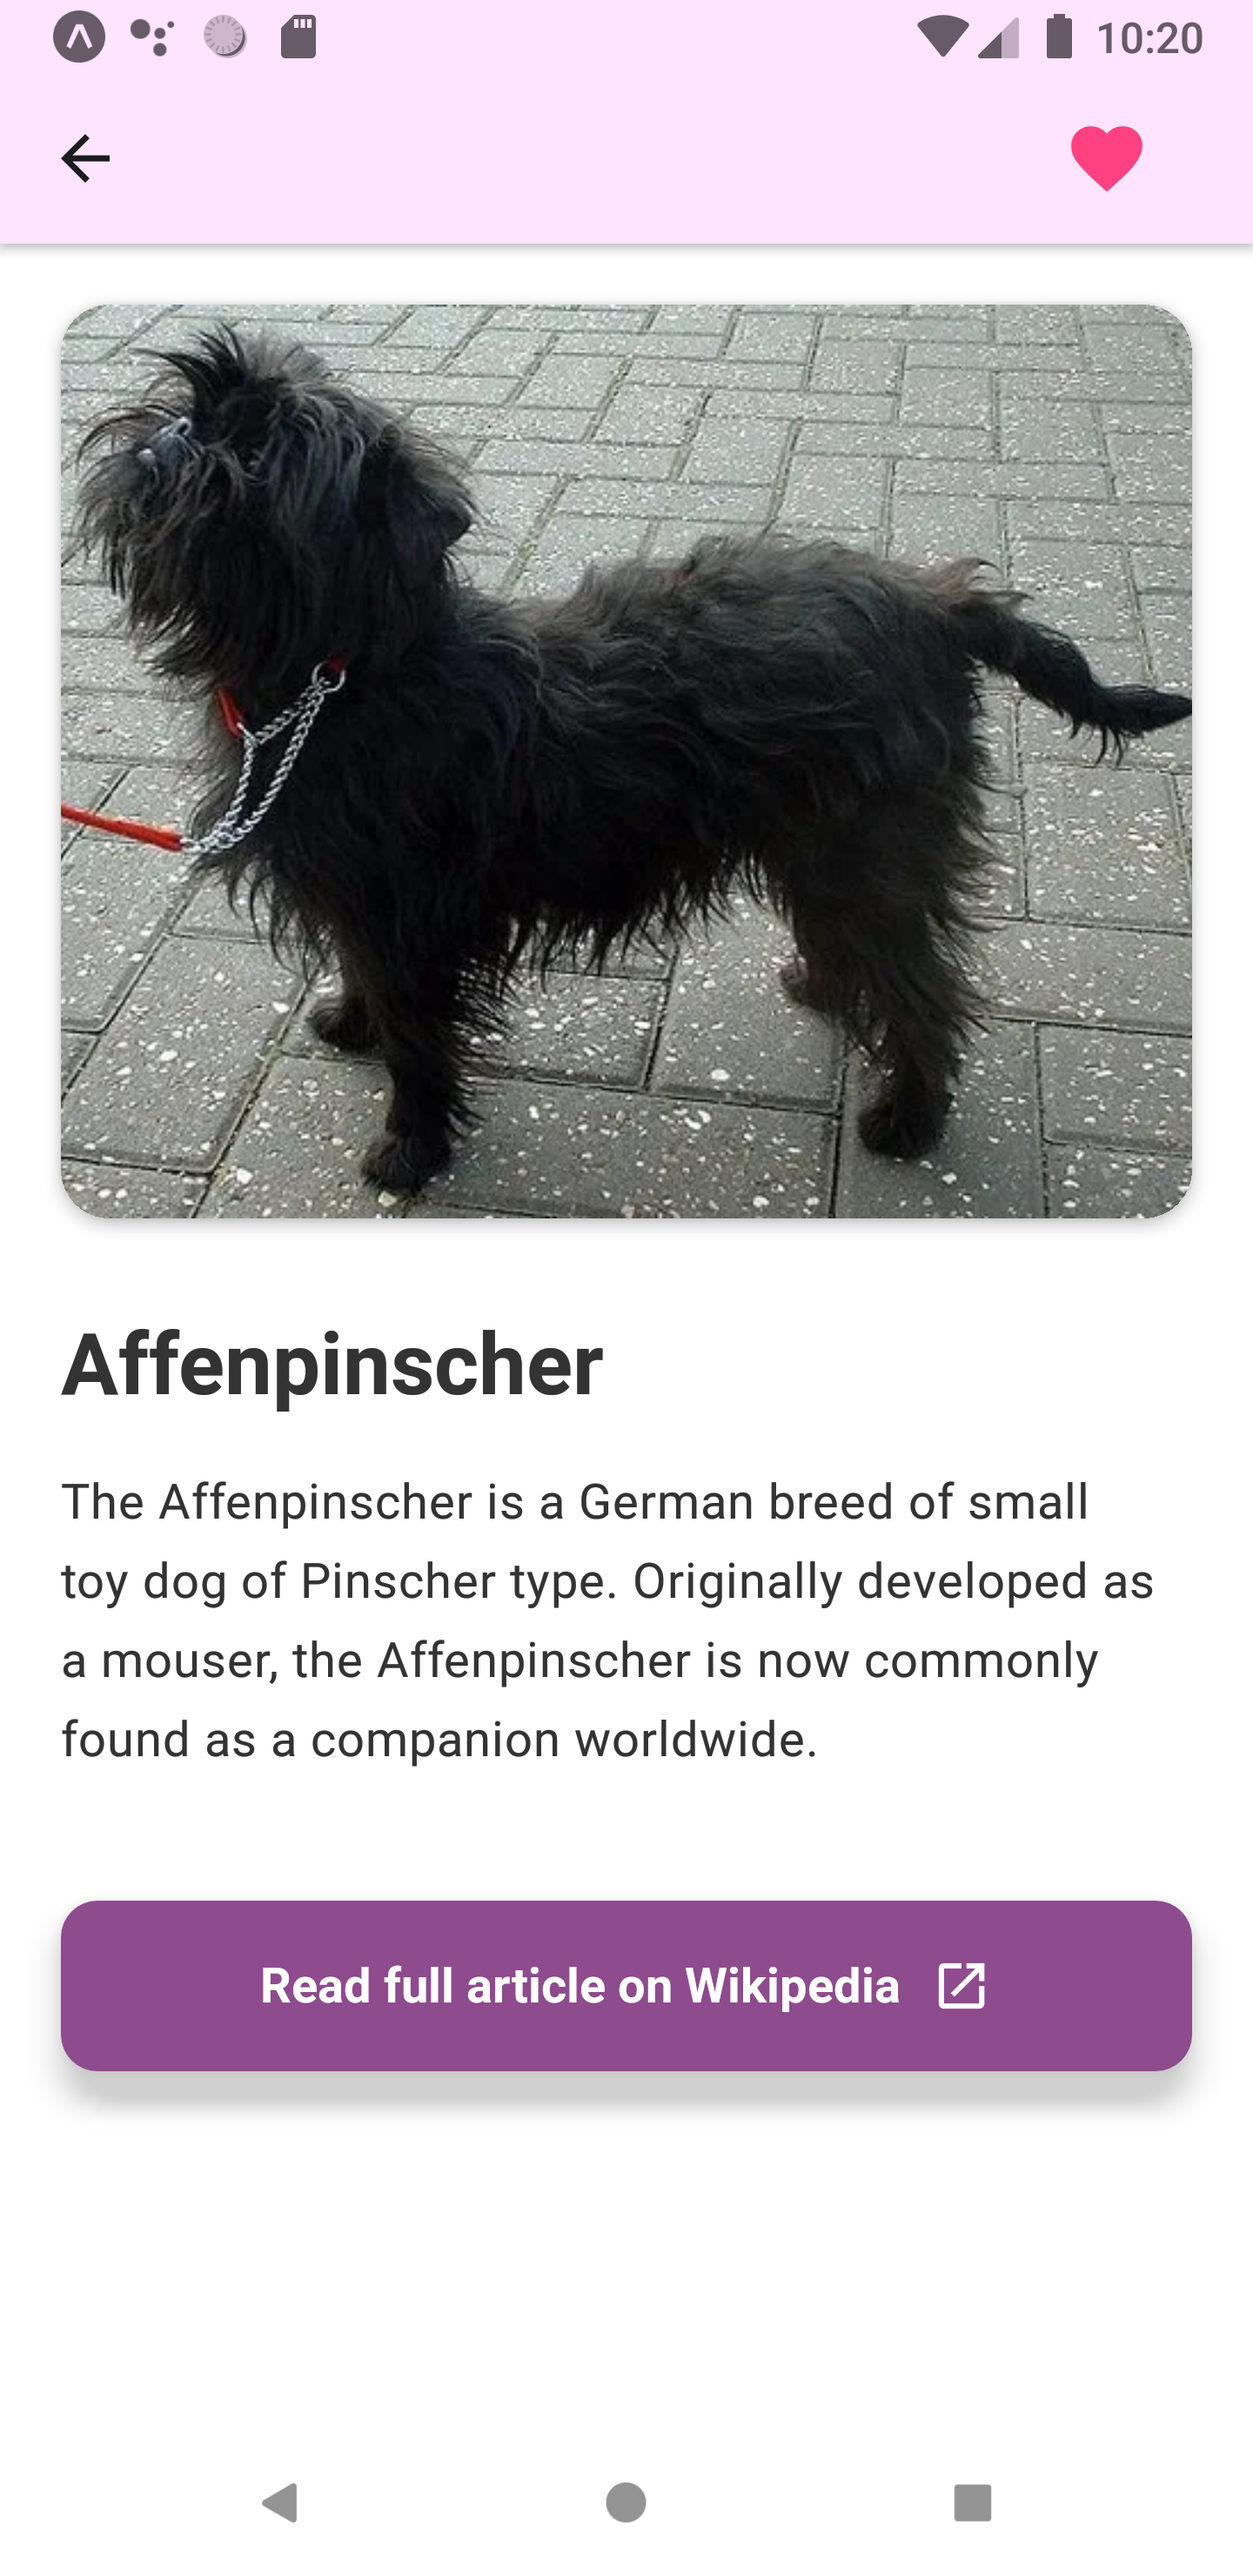
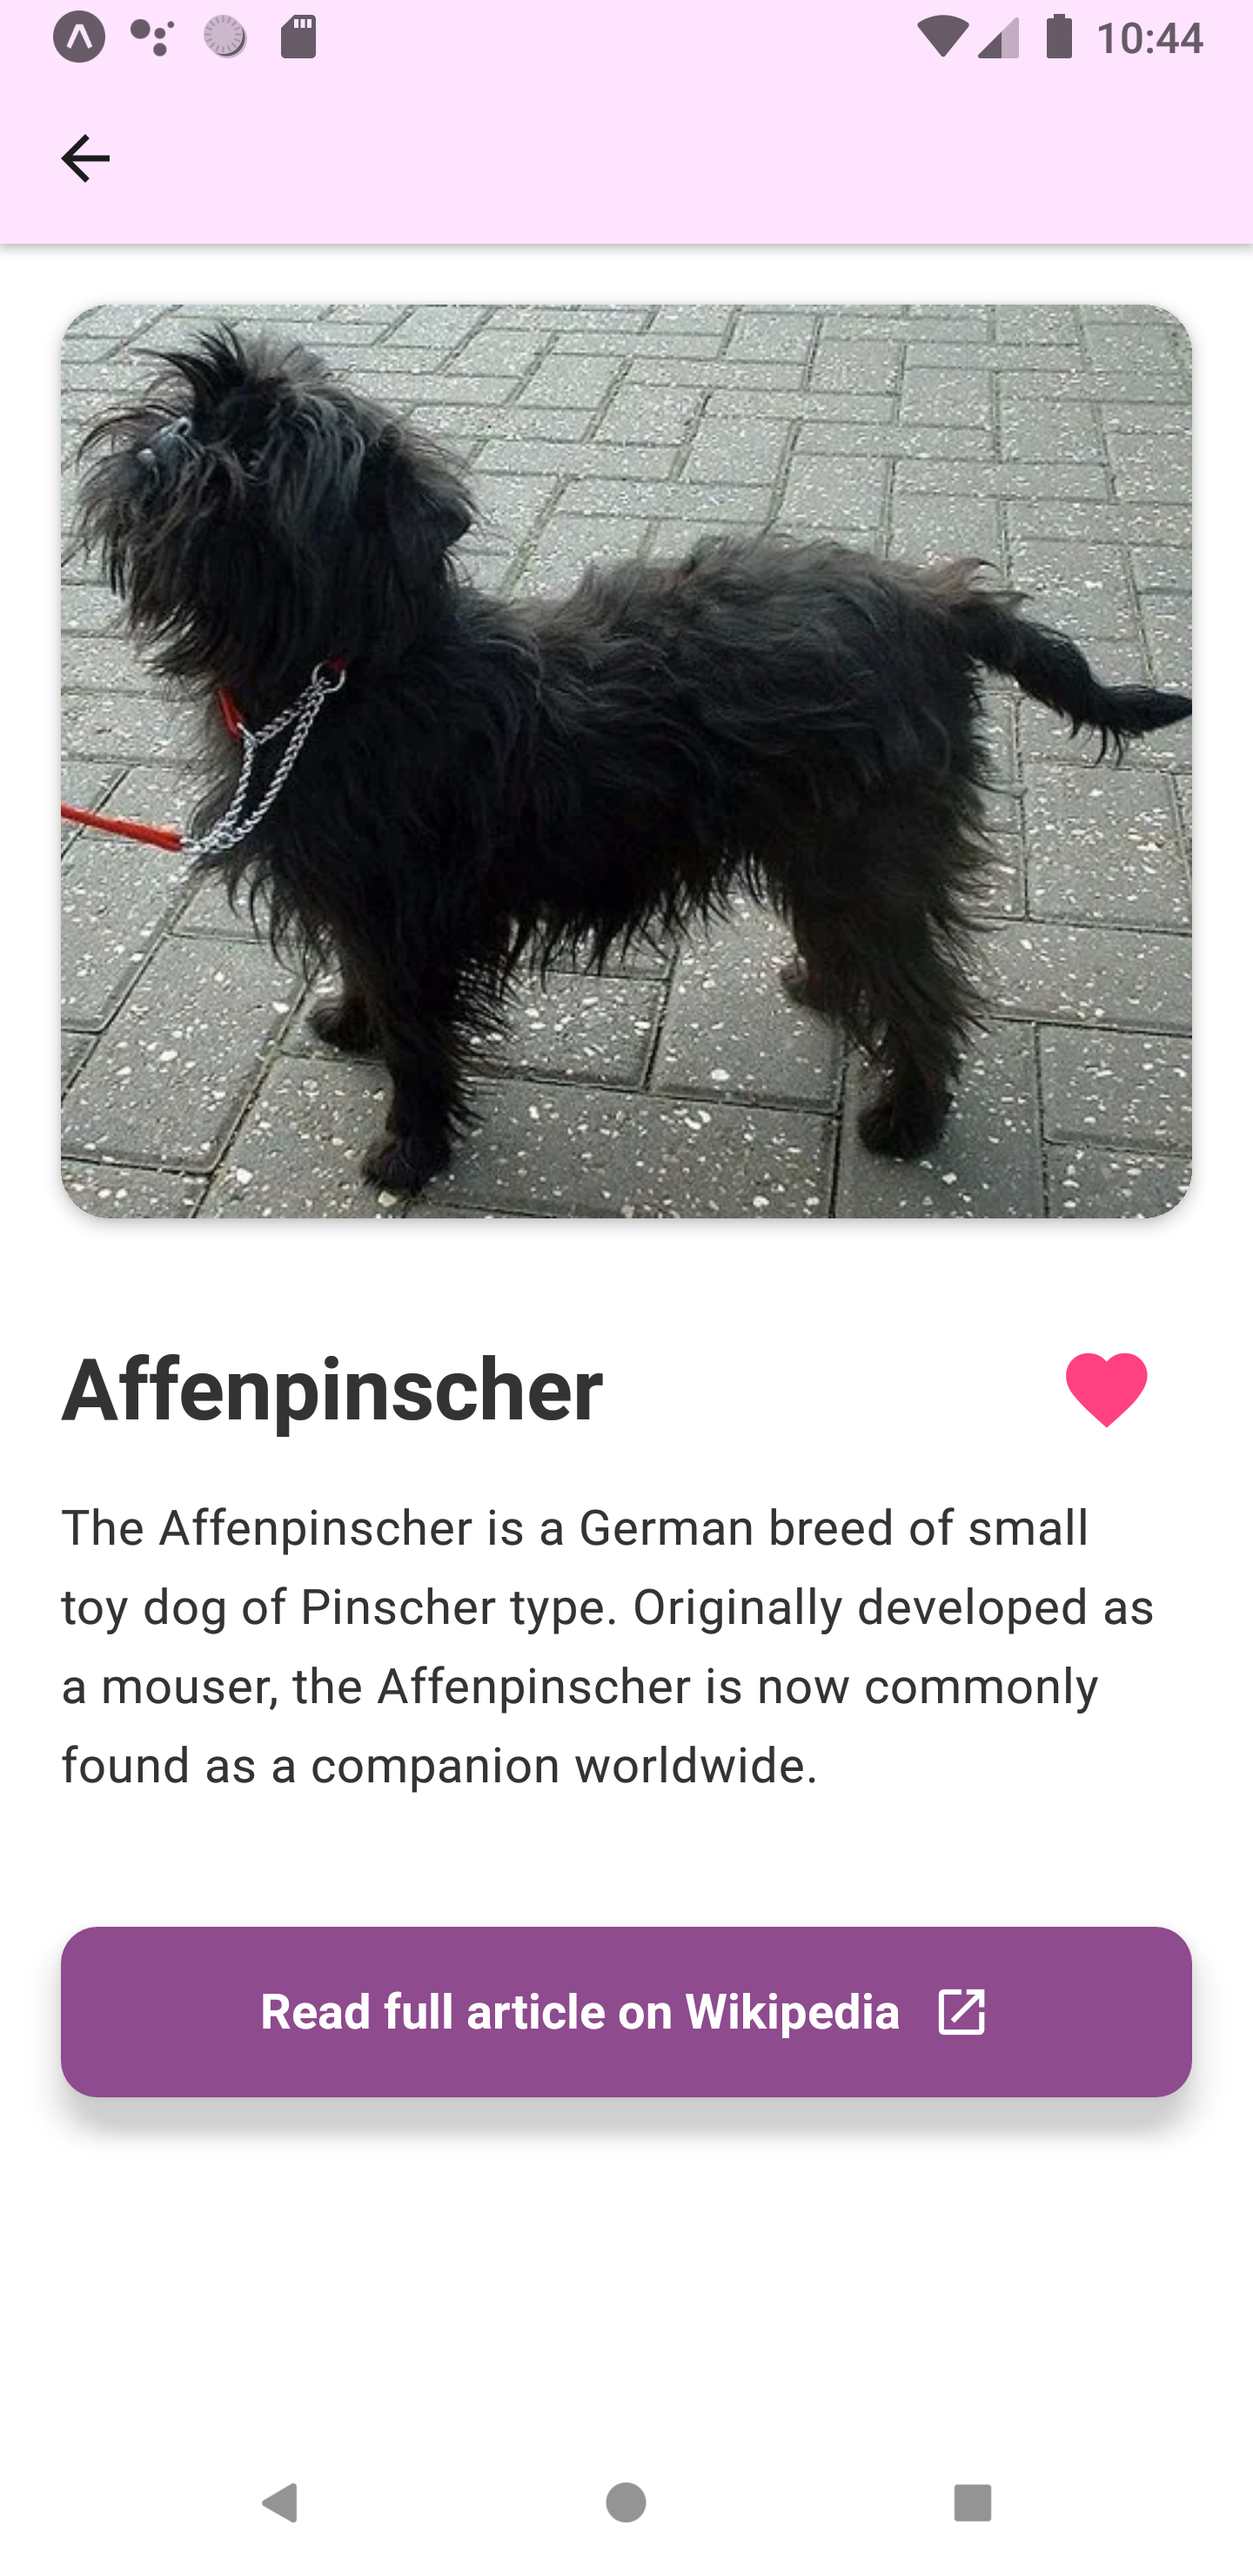
change favorite button location

Changed region(s): [[0.0312, 0.4973, 0.9688, 0.8392], [0.8438, 0.0311, 0.9062, 0.0932], [0.9062, 0.0, 0.9688, 0.0311]]

diff --git a/app/detail.tsx b/app/detail.tsx
@@ -119,7 +119,7 @@ export default function DogDetailScreen() {
       });
   }, [dogName]);
 
-  // Animation value for heart beat effect
+  // Animation value for heart button
   const heartScale = useRef(new Animated.Value(1)).current;
 
   const checkIfFavorite = useCallback(async () => {
@@ -127,7 +127,8 @@ export default function DogDetailScreen() {
       const savedFavorites = await AsyncStorage.getItem("dogFavorites");
       if (savedFavorites) {
         const favorites = JSON.parse(savedFavorites);
-        setIsFavorite(favorites.includes(dogName));
+        const isFav = favorites.includes(dogName);
+        setIsFavorite(isFav);
       }
     } catch (error) {
       console.error("Error checking favorite status:", error);
@@ -138,11 +139,21 @@ export default function DogDetailScreen() {
     // Reset scale to 1
     heartScale.setValue(1);
 
-    // Create a sequence of animations
+    // Create a more dynamic heartbeat effect
     Animated.sequence([
       Animated.timing(heartScale, {
-        toValue: 1.3,
+        toValue: 1.5,
         duration: 150,
+        useNativeDriver: true,
+      }),
+      Animated.timing(heartScale, {
+        toValue: 0.8,
+        duration: 100,
+        useNativeDriver: true,
+      }),
+      Animated.timing(heartScale, {
+        toValue: 1.2,
+        duration: 100,
         useNativeDriver: true,
       }),
       Animated.timing(heartScale, {
@@ -166,6 +177,8 @@ export default function DogDetailScreen() {
         ? JSON.parse(savedFavorites)
         : [];
 
+      const newFavoriteState = !isFavorite;
+
       if (isFavorite) {
         favorites = favorites.filter((name) => name !== dogName);
       } else {
@@ -176,17 +189,15 @@ export default function DogDetailScreen() {
       await AsyncStorage.setItem("dogFavorites", JSON.stringify(favorites));
 
       // Only update state after successful storage
-      setIsFavorite(!isFavorite);
+      setIsFavorite(newFavoriteState);
 
-      // Show feedback to user
-      if (!isFavorite) {
-        // We're adding to favorites
-        Alert.alert(
-          "Added to Favorites",
-          `${dogName} has been added to your favorites!`,
-          [{ text: "OK", style: "default" }],
-          { cancelable: true }
-        );
+      // Show brief visual feedback with haptic feedback
+      if (newFavoriteState) {
+        // We're adding to favorites - just animation
+        Vibration.vibrate([0, 40, 50, 40]);
+      } else {
+        // We're removing from favorites
+        Vibration.vibrate(20);
       }
     } catch (error) {
       console.error("Error toggling favorite status:", error);
@@ -212,23 +223,6 @@ export default function DogDetailScreen() {
           headerTitleStyle: {
             fontFamily: "InterTight-SemiBold",
           },
-          headerRight: () => (
-            <TouchableOpacity
-              onPress={toggleFavorite}
-              style={styles.favoriteButton}
-              activeOpacity={0.7}
-            >
-              <Animated.View style={{ transform: [{ scale: heartScale }] }}>
-                <MaterialIcons
-                  name={isFavorite ? "favorite" : "favorite-border"}
-                  size={28}
-                  color={
-                    isFavorite ? "#ff4081" : Colors[colorScheme ?? "light"].icon
-                  }
-                />
-              </Animated.View>
-            </TouchableOpacity>
-          ),
         }}
       />
       <ScrollView
@@ -277,9 +271,28 @@ export default function DogDetailScreen() {
             </ThemedView>
           ) : (
             <>
-              <ThemedText type="title" style={styles.title}>
-                {dogName}
-              </ThemedText>
+              <ThemedView style={styles.titleContainer} useBackground={false}>
+                <ThemedText type="title" style={styles.title}>
+                  {dogName}
+                </ThemedText>
+                <TouchableOpacity
+                  onPress={toggleFavorite}
+                  style={styles.favoriteButtonInline}
+                  activeOpacity={0.7}
+                >
+                  <Animated.View style={{ transform: [{ scale: heartScale }] }}>
+                    <MaterialIcons
+                      name={isFavorite ? "favorite" : "favorite-border"}
+                      size={32}
+                      color={
+                        isFavorite
+                          ? "#ff4081"
+                          : Colors[colorScheme ?? "light"].icon
+                      }
+                    />
+                  </Animated.View>
+                </TouchableOpacity>
+              </ThemedView>
 
               <ThemedText style={styles.description}>{dogInfo}</ThemedText>
 
@@ -332,13 +345,27 @@ const styles = StyleSheet.create({
     height: 300,
     borderRadius: 16,
   },
+  titleContainer: {
+    flexDirection: "row",
+    justifyContent: "space-between",
+    alignItems: "center",
+    marginBottom: 8,
+    marginTop: 8,
+  },
   title: {
     fontSize: 28,
-    marginBottom: 16,
-    marginTop: 8,
     fontWeight: "700",
     textTransform: "capitalize",
+    flex: 1,
   },
+  favoriteButtonInline: {
+    paddingVertical: 8,
+    paddingHorizontal: 12,
+    borderRadius: 40,
+    justifyContent: "center",
+    alignItems: "center",
+  },
+
   loadingContainer: {
     flex: 1,
     justifyContent: "center",
@@ -391,27 +418,7 @@ const styles = StyleSheet.create({
     marginRight: 6,
     position: "relative",
   },
-  favoriteIndicator: {
-    position: "absolute",
-    top: -4,
-    right: -4,
-    width: 12,
-    height: 12,
-    borderRadius: 6,
-    backgroundColor: "#ff4081",
-    justifyContent: "center",
-    alignItems: "center",
-    shadowColor: "#000",
-    shadowOffset: { width: 0, height: 1 },
-    shadowOpacity: 0.2,
-    shadowRadius: 2,
-    elevation: 2,
-  },
-  favoriteIndicatorText: {
-    color: "#fff",
-    fontSize: 8,
-    fontWeight: "bold",
-  },
+
   noImageContainer: {
     width: "100%",
     height: 300,

diff --git a/README.md b/README.md
@@ -6,8 +6,8 @@ This is a comprehensive dog breed encyclopedia app built with [Expo](https://exp
 
 <div align="center">
   <img src="./assets/Google%20Play%20Store/home_screen.png" alt="Home Screen" width="200"/>
+   <img src="./assets/Google%20Play%20Store/dog_information.png" alt="Dog Information" width="200"/>
   <img src="./assets/Google%20Play%20Store/discover.png" alt="Discover" width="200"/>
-  <img src="./assets/Google%20Play%20Store/dog_information.png" alt="Dog Information" width="200"/>
   <img src="./assets/Google%20Play%20Store/favorites.png" alt="Favorites" width="200"/>
 </div>
 
